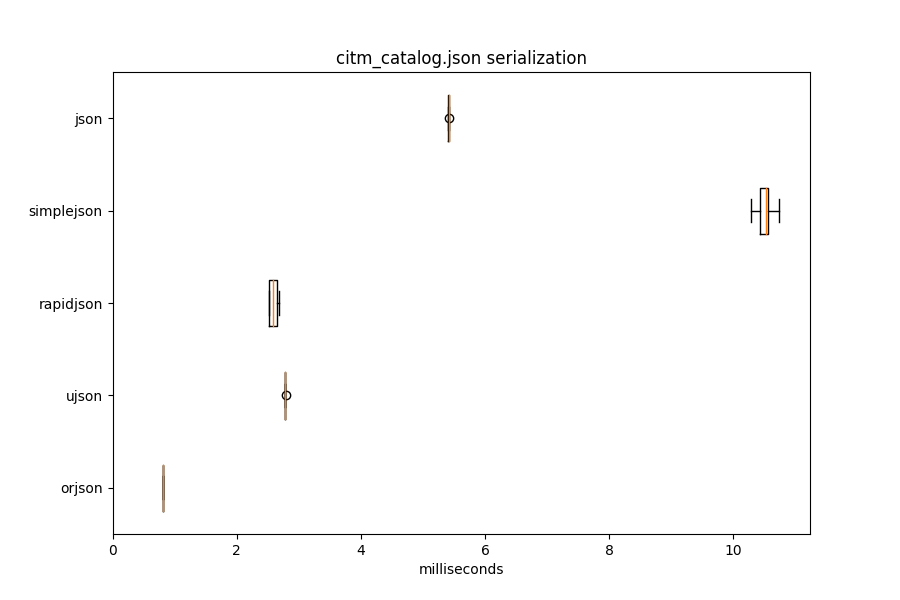
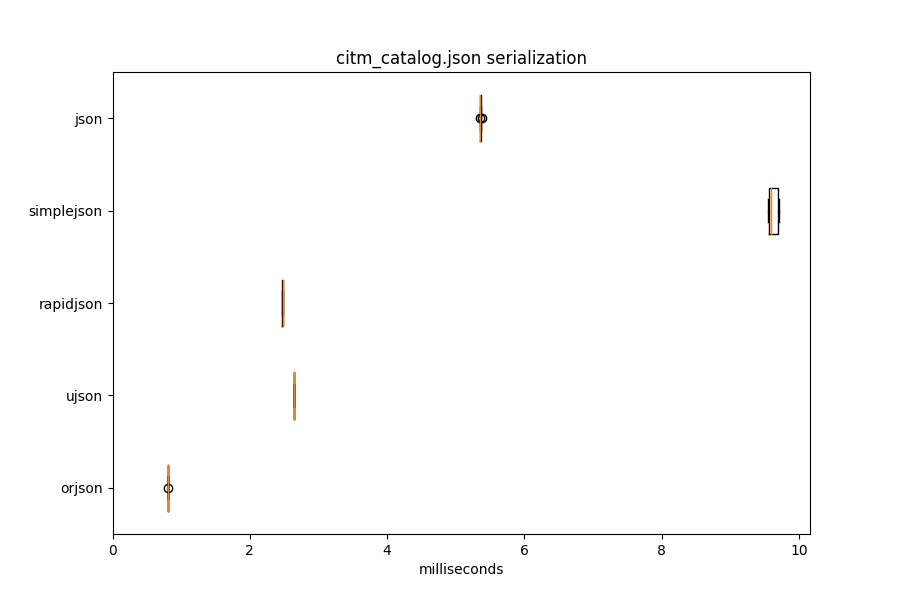
2.0.6

diff --git a/README.md b/README.md
@@ -19,8 +19,10 @@ printing, and not supporting all standard library options.
 
 orjson supports CPython 3.5, 3.6, 3.7, and 3.8. It distributes wheels for Linux,
 macOS, and Windows. The manylinux1 wheel differs from PEP 513 in requiring
-glibc 2.18, released 2013, or later. orjson is licensed under both
-the Apache 2.0 and MIT licenses. The repository and issue tracker is
+glibc 2.18, released 2013, or later. orjson does not currently support PyPy.
+
+orjson is licensed under both the Apache 2.0 and MIT licenses. The
+repository and issue tracker is
 [github.com/ijl/orjson](https://github.com/ijl/orjson), and patches may be
 submitted there.
 
@@ -340,87 +342,87 @@ format, containing floats and arrays, indented.
 
 | Library    |   Median latency (milliseconds) |   Operations per second |   Relative (latency) |
 |------------|---------------------------------|-------------------------|----------------------|
-| orjson     |                            0.54 |                  1854.5 |                 1    |
-| ujson      |                            1.47 |                   678.3 |                 2.73 |
-| rapidjson  |                            1.58 |                   634   |                 2.92 |
-| simplejson |                            2.7  |                   369.3 |                 5.01 |
-| json       |                            2.45 |                   407.7 |                 4.55 |
+| orjson     |                            0.5  |                  1985.7 |                 1    |
+| ujson      |                            1.38 |                   722.5 |                 2.75 |
+| rapidjson  |                            1.59 |                   628   |                 3.16 |
+| simplejson |                            2.61 |                   382.5 |                 5.19 |
+| json       |                            2.64 |                   378.6 |                 5.24 |
 
 #### twitter.json deserialization
 
 | Library    |   Median latency (milliseconds) |   Operations per second |   Relative (latency) |
 |------------|---------------------------------|-------------------------|----------------------|
-| orjson     |                            2.6  |                   384.4 |                 1    |
-| ujson      |                            2.33 |                   427.2 |                 0.89 |
-| rapidjson  |                            3.09 |                   322   |                 1.19 |
-| simplejson |                            2.61 |                   381.5 |                 1    |
-| json       |                            2.91 |                   342.1 |                 1.12 |
+| orjson     |                            2.49 |                   400.5 |                 1    |
+| ujson      |                            2.21 |                   451.1 |                 0.89 |
+| rapidjson  |                            3.03 |                   329.3 |                 1.22 |
+| simplejson |                            2.67 |                   374.7 |                 1.07 |
+| json       |                            2.78 |                   359.8 |                 1.12 |
 
 #### github.json serialization
 
 | Library    |   Median latency (milliseconds) |   Operations per second |   Relative (latency) |
 |------------|---------------------------------|-------------------------|----------------------|
-| orjson     |                            0.06 |                 16532.4 |                 1    |
-| ujson      |                            0.14 |                  6990.6 |                 2.35 |
-| rapidjson  |                            0.16 |                  6236.3 |                 2.65 |
-| simplejson |                            0.31 |                  3234.9 |                 5.1  |
-| json       |                            0.25 |                  3943.4 |                 4.19 |
+| orjson     |                            0.06 |                 18040.3 |                 1    |
+| ujson      |                            0.13 |                  7501.6 |                 2.4  |
+| rapidjson  |                            0.16 |                  6298.6 |                 2.86 |
+| simplejson |                            0.3  |                  3348.9 |                 5.38 |
+| json       |                            0.25 |                  4042.6 |                 4.44 |
 
 #### github.json deserialization
 
 | Library    |   Median latency (milliseconds) |   Operations per second |   Relative (latency) |
 |------------|---------------------------------|-------------------------|----------------------|
-| orjson     |                            0.23 |                  4395.8 |                 1    |
-| ujson      |                            0.23 |                  4431.2 |                 0.99 |
-| rapidjson  |                            0.27 |                  3746.8 |                 1.18 |
-| simplejson |                            0.22 |                  4652.8 |                 0.95 |
-| json       |                            0.25 |                  3991.5 |                 1.11 |
+| orjson     |                            0.21 |                  4757.4 |                 1    |
+| ujson      |                            0.22 |                  4516.9 |                 1.05 |
+| rapidjson  |                            0.27 |                  3715.4 |                 1.28 |
+| simplejson |                            0.23 |                  4426.2 |                 1.08 |
+| json       |                            0.25 |                  4062.4 |                 1.18 |
 
 #### citm_catalog.json serialization
 
 | Library    |   Median latency (milliseconds) |   Operations per second |   Relative (latency) |
 |------------|---------------------------------|-------------------------|----------------------|
-| orjson     |                            0.81 |                  1232   |                 1    |
-| ujson      |                            2.78 |                   359.1 |                 3.43 |
-| rapidjson  |                            2.59 |                   386   |                 3.19 |
-| simplejson |                           10.53 |                    95.2 |                12.98 |
-| json       |                            5.41 |                   184.7 |                 6.67 |
+| orjson     |                            0.8  |                  1246.4 |                 1    |
+| ujson      |                            2.64 |                   378.7 |                 3.29 |
+| rapidjson  |                            2.48 |                   403.8 |                 3.09 |
+| simplejson |                            9.6  |                   103.9 |                11.96 |
+| json       |                            5.36 |                   186.5 |                 6.68 |
 
 #### citm_catalog.json deserialization
 
 | Library    |   Median latency (milliseconds) |   Operations per second |   Relative (latency) |
 |------------|---------------------------------|-------------------------|----------------------|
-| orjson     |                            4.76 |                   210.1 |                 1    |
-| ujson      |                            4.39 |                   228   |                 0.92 |
-| rapidjson  |                            5.79 |                   174.9 |                 1.22 |
-| simplejson |                            6.1  |                   163.8 |                 1.28 |
-| json       |                            6.03 |                   165.7 |                 1.27 |
+| orjson     |                            4.97 |                   201   |                 1    |
+| ujson      |                            4.7  |                   208.7 |                 0.95 |
+| rapidjson  |                            5.73 |                   174.7 |                 1.15 |
+| simplejson |                            6.08 |                   164.9 |                 1.22 |
+| json       |                            6.3  |                   158.4 |                 1.27 |
 
 #### canada.json serialization
 
 | Library    |   Median latency (milliseconds) |   Operations per second |   Relative (latency) |
 |------------|---------------------------------|-------------------------|----------------------|
-| orjson     |                            3.95 |                   252.1 |                 1    |
+| orjson     |                            4.05 |                   247.3 |                 1    |
 | ujson      |                                 |                         |                      |
-| rapidjson  |                           44.17 |                    22.6 |                11.18 |
-| simplejson |                           64.52 |                    15.5 |                16.33 |
-| json       |                           47.01 |                    21.3 |                11.9  |
+| rapidjson  |                           44.17 |                    22.6 |                10.91 |
+| simplejson |                           62.31 |                    16.1 |                15.39 |
+| json       |                           47.49 |                    21.1 |                11.73 |
 
 #### canada.json deserialization
 
 | Library    |   Median latency (milliseconds) |   Operations per second |   Relative (latency) |
 |------------|---------------------------------|-------------------------|----------------------|
-| orjson     |                           14.76 |                    67.8 |                 1    |
+| orjson     |                           14.97 |                    66.8 |                 1    |
 | ujson      |                                 |                         |                      |
-| rapidjson  |                           29.01 |                    34.5 |                 1.97 |
-| simplejson |                           26.75 |                    37.4 |                 1.81 |
-| json       |                           27.18 |                    36.8 |                 1.84 |
+| rapidjson  |                           29.72 |                    33.7 |                 1.99 |
+| simplejson |                           28.54 |                    35.1 |                 1.91 |
+| json       |                           29.29 |                    34.2 |                 1.96 |
 
 
 If a row is blank, the library did not serialize and deserialize the fixture without
 modifying it, e.g., returning different values for floating point numbers.
 
-This was measured using Python 3.7.3 on Linux with orjson 2.0.5, ujson 1.35,
+This was measured using Python 3.7.3 on Linux with orjson 2.0.6, ujson 1.35,
 python-rapidson 0.7.0, and simplejson 3.16.0.
 
 The results can be reproduced using the `pybench` and `graph` scripts.

diff --git a/CHANGELOG.md b/CHANGELOG.md
@@ -1,6 +1,12 @@
 # Changelog
 
-## 2.0.5 - 2019-04-
+## 2.0.6 - 2019-05-11
+
+### Changed
+
+- Performance improvements.
+
+## 2.0.5 - 2019-04-19
 
 ### Fixed
 
